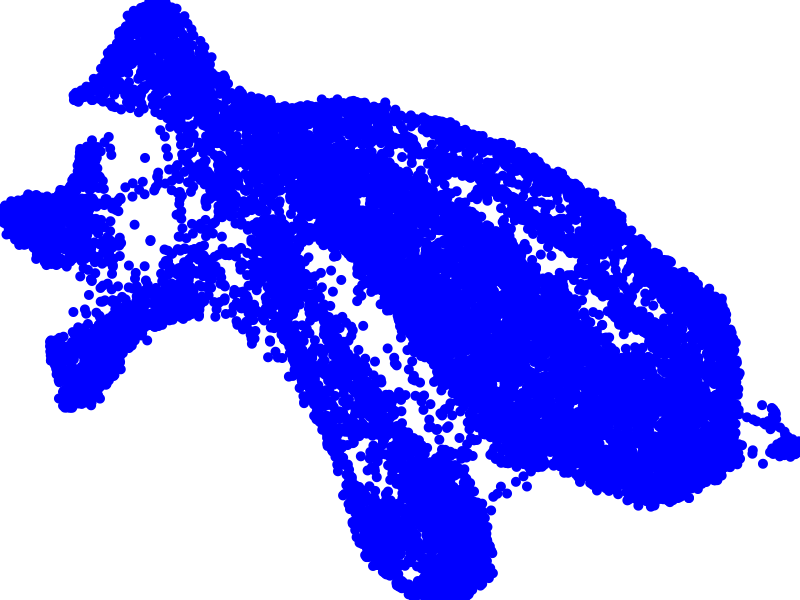
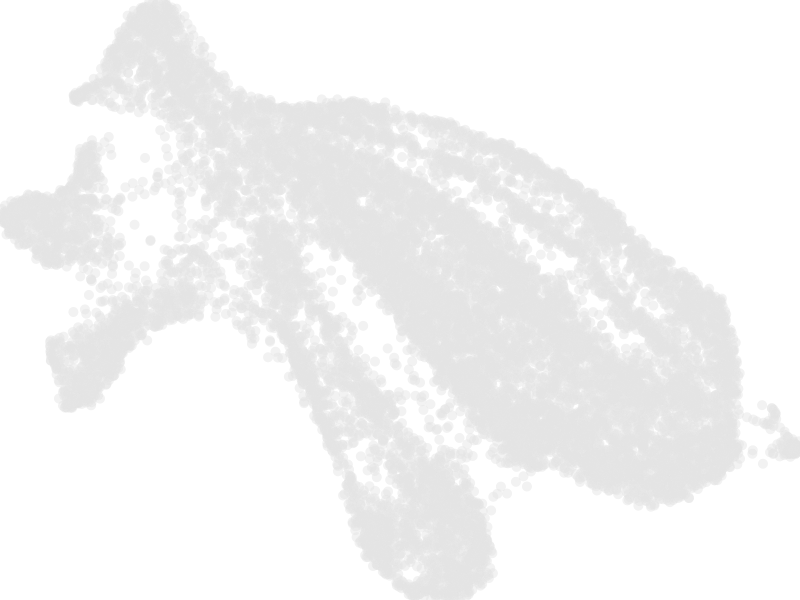
support colors

diff --git a/generate-scatter-plot.js b/generate-scatter-plot.js
@@ -37,7 +37,7 @@ tsvFiles.forEach((file) => {
     .domain(d3.extent(data, (d) => +d.UMAP_2))
     .range([height, 0]);
 
-  // 散布図を描画
+  // 散布図を描画（カラーコードを反映）
   svg
     .selectAll("circle")
     .data(data)
@@ -46,7 +46,7 @@ tsvFiles.forEach((file) => {
     .attr("cx", (d) => xScale(+d.UMAP_1))
     .attr("cy", (d) => yScale(+d.UMAP_2))
     .attr("r", 5)
-    .attr("fill", "blue"); // ここでは全ての点を青色で描画
+    .attr("fill", (d) => d.color_A951); // ここでカラーコードを適用
 
   // SVGを文字列として取得
   const svgString = body.select("svg").node().outerHTML;
